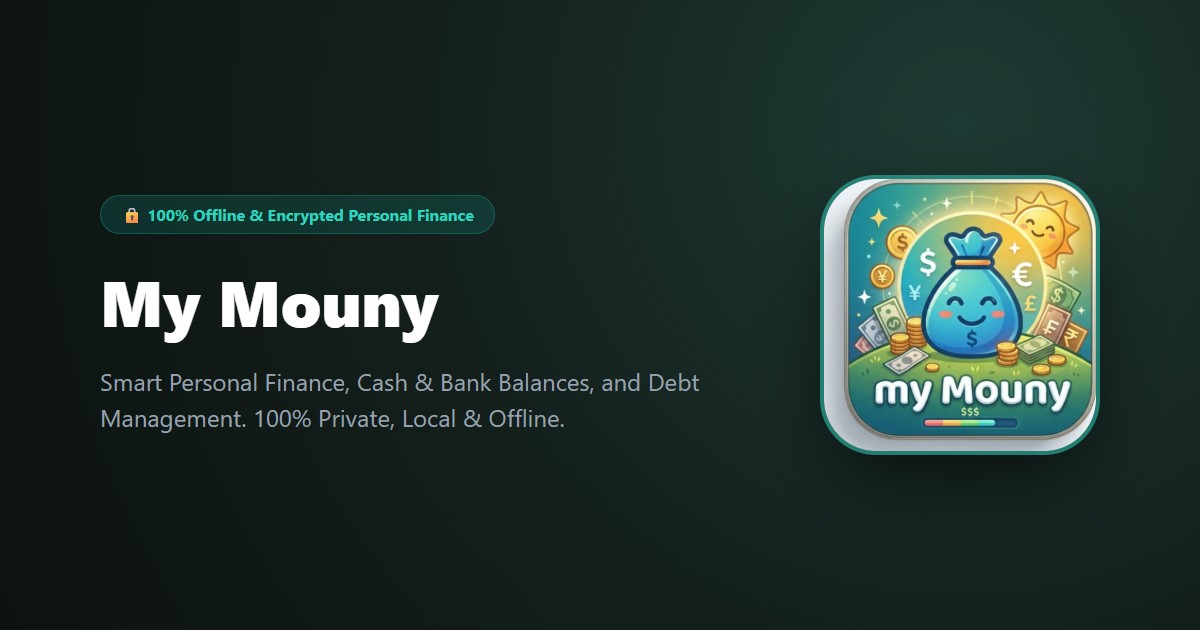
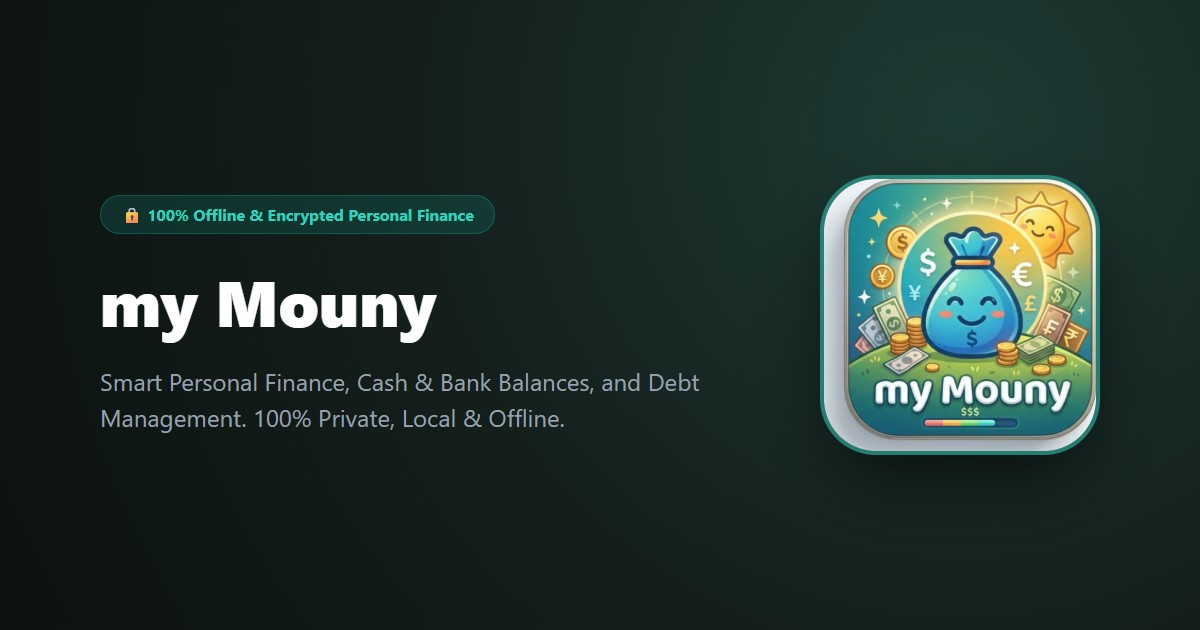
feat: rename application strictly to 'my Mouny' matching official artwork

Changed region(s): [[0.0617, 0.4222, 0.37, 0.5429]]

diff --git a/src/lib/i18n/index.ts b/src/lib/i18n/index.ts
@@ -20,7 +20,7 @@ export const LANGUAGES: LanguageInfo[] = [
 export const translations = {
   ar: {
     // Top Header & Vault
-    appName: "My Mouny",
+    appName: "my Mouny",
     appSubtitle: "بياناتك محفوظة ومشفرة محلياً في جهازك بدون اتصال خارجي",
     vaultEncrypted: "مشفّرة ومحمية 🔒",
     vaultOpen: "خزنة محلية مفتوحة 🔓",
@@ -186,7 +186,7 @@ export const translations = {
 
     // Exit Toast & Footer
     pressBackAgainToExit: "اضغط رجوع مرة أخرى للخروج من التطبيق",
-    footerCopyright: "My Mouny © 2026",
+    footerCopyright: "my Mouny © 2026",
     footerPrivacy: "سياسة الخصوصية والأمان",
     footerSecurity: "تشفير محلي عسكري AES-256 · أوفلاين 100% بدون خوادم",
 
@@ -204,7 +204,7 @@ export const translations = {
     waiveNotice: "الإسقاط لا يحرّك الكاش ولا البنك، ويعدّل الصافي فقط.",
 
     // Auth screen & Vault Creation & PIN Management
-    defaultVaultName: "My Mouny",
+    defaultVaultName: "my Mouny",
     pinMinLengthError: "رمز المرور يجب أن يتكون من 4 خانات على الأقل (أو اتركه فارغاً للدخول بدون رمز)",
     pinsDoNotMatchError: "رمزا المرور غير متطابقين",
     chooseBackupFileError: "يرجى اختيار ملف النسخة الاحتياطية (.json)",
@@ -224,7 +224,7 @@ export const translations = {
     createNewVaultBtn: "إنشاء خزنة جديدة على هذا الجهاز",
     importVaultFromBackupBtn: "استيراد خزنة من نسخة احتياطية (.json)",
     vaultNameLabel: "اسم الخزنة",
-    vaultNamePlaceholder: "مثال: خزنة My Mouny، مصاريف البيت",
+    vaultNamePlaceholder: "مثال: خزنة my Mouny، مصاريف البيت",
     vaultPinOptionalLabel: "رمز المرور (PIN أو كلمة سر)",
     optionalBadge: "اختياري",
     pinOptionalPlaceholder: "اتركه فارغاً للدخول بدون رمز، أو 4 خانات",
@@ -288,7 +288,7 @@ export const translations = {
 
   en: {
     // Top Header & Vault
-    appName: "My Mouny",
+    appName: "my Mouny",
     appSubtitle: "Your data is stored and encrypted locally on this device without external servers",
     vaultEncrypted: "Encrypted & Protected 🔒",
     vaultOpen: "Open Local Vault 🔓",
@@ -454,7 +454,7 @@ export const translations = {
 
     // Exit Toast & Footer
     pressBackAgainToExit: "Press back again to exit the app",
-    footerCopyright: "My Mouny © 2026",
+    footerCopyright: "my Mouny © 2026",
     footerPrivacy: "Privacy Policy & Security",
     footerSecurity: "Military-grade local AES-256 · 100% Offline without servers",
 
@@ -472,7 +472,7 @@ export const translations = {
     waiveNotice: "Waiving does not move Cash or Bank, it only updates Net Worth.",
 
     // Auth screen & Vault Creation & PIN Management
-    defaultVaultName: "My Mouny",
+    defaultVaultName: "my Mouny",
     pinMinLengthError: "PIN must be at least 4 digits (or leave blank to enter without PIN)",
     pinsDoNotMatchError: "PINs do not match",
     chooseBackupFileError: "Please select a backup file (.json)",
@@ -556,7 +556,7 @@ export const translations = {
 
   el: {
     // Top Header & Vault
-    appName: "My Mouny",
+    appName: "my Mouny",
     appSubtitle: "Τα δεδομένα σας αποθηκεύονται και κρυπτογραφούνται τοπικά σε αυτήν τη συσκευή",
     vaultEncrypted: "Κρυπτογραφημένο & Προστατευμένο 🔒",
     vaultOpen: "Ανοιχτό Τοπικό Θησαυροφυλάκιο 🔓",
@@ -722,7 +722,7 @@ export const translations = {
 
     // Exit Toast & Footer
     pressBackAgainToExit: "Πατήστε ξανά πίσω για έξοδο από την εφαρμογή",
-    footerCopyright: "My Mouny © 2026",
+    footerCopyright: "my Mouny © 2026",
     footerPrivacy: "Πολιτική Απορρήτου & Ασφάλεια",
     footerSecurity: "Στρατιωτικού επιπέδου τοπικό AES-256 · 100% Εκτός σύνδεσης χωρίς διακομιστές",
 
@@ -740,7 +740,7 @@ export const translations = {
     waiveNotice: "Η διαγραφή δεν επηρεάζει τα Μετρητά ή την Τράπεζα, ενημερώνει μόνο την Καθαρή Αξία.",
 
     // Auth screen & Vault Creation & PIN Management
-    defaultVaultName: "My Mouny",
+    defaultVaultName: "my Mouny",
     pinMinLengthError: "Το PIN πρέπει να αποτελείται από τουλάχιστον 4 ψηφία (ή αφήστε το κενό)",
     pinsDoNotMatchError: "Τα PIN δεν ταιριάζουν",
     chooseBackupFileError: "Παρακαλώ επιλέξτε αρχείο αντιγράφου ασφαλείας (.json)",

diff --git a/src/components/ledger/home.tsx b/src/components/ledger/home.tsx
@@ -220,10 +220,10 @@ function InstallGuideModal({ onClose }: { onClose: () => void }) {
             <div>
               <h2 className="text-base font-bold text-ink leading-tight">
                 {lang === "ar"
-                  ? "تثبيت My Mouny كـ تطبيق"
+                  ? "تثبيت my Mouny كـ تطبيق"
                   : lang === "el"
-                  ? "Εγκατάσταση My Mouny"
-                  : "Install My Mouny as an App"}
+                  ? "Εγκατάσταση my Mouny"
+                  : "Install my Mouny as an App"}
               </h2>
               <p className="text-xs text-muted">
                 {lang === "ar"
@@ -373,8 +373,8 @@ function InstallGuideModal({ onClose }: { onClose: () => void }) {
                 </span>
                 <p className="font-semibold text-accent">
                   {lang === "ar"
-                    ? "ستجد أيقونة تثبيت صغيرة على شكل كمبيوتر وسهم لأسفل أو زر «تثبيت My Mouny»."
-                    : "Click the small install icon (computer with down arrow) or 'Install My Mouny'."}
+                    ? "ستجد أيقونة تثبيت صغيرة على شكل كمبيوتر وسهم لأسفل أو زر «تثبيت my Mouny»."
+                    : "Click the small install icon (computer with down arrow) or 'Install my Mouny'."}
                 </p>
               </div>
               <div className="flex items-start gap-2.5">
@@ -383,8 +383,8 @@ function InstallGuideModal({ onClose }: { onClose: () => void }) {
                 </span>
                 <p>
                   {lang === "ar"
-                    ? "أو من قائمة المتصفح (⋮) اختر «حفظ ومشاركة» -> «تثبيت My Mouny»، وسيفتح التطبيق فوراً كبرنامج مستقل على سطح المكتب!"
-                    : "Or from browser menu (⋮) choose 'Save and share' -> 'Install My Mouny' to launch as a standalone desktop app!"}
+                    ? "أو من قائمة المتصفح (⋮) اختر «حفظ ومشاركة» -> «تثبيت my Mouny»، وسيفتح التطبيق فوراً كبرنامج مستقل على سطح المكتب!"
+                    : "Or from browser menu (⋮) choose 'Save and share' -> 'Install my Mouny' to launch as a standalone desktop app!"}
                 </p>
               </div>
             </div>
@@ -634,15 +634,19 @@ function Ledger() {
     currentVault.name === "خزينتي الرئيسية" ||
     currentVault.name === "خزينتي الأساسية" ||
     currentVault.name === "خزنة My Mouny" ||
+    currentVault.name === "خزنة my Mouny" ||
     currentVault.name === "ماي موني" ||
     currentVault.name === "My Mouny" ||
+    currentVault.name === "my Mouny" ||
     currentVault.name === "My Main Vault" ||
     currentVault.name === "My Mouny Vault" ||
+    currentVault.name === "my Mouny Vault" ||
     currentVault.name === "Το Κύριο Ταμείο μου" ||
     currentVault.name === "Το Ταμείο μου (My Mouny)" ||
+    currentVault.name === "Το Ταμείο μου (my Mouny)" ||
     currentVault.name === "Μάι Μούνι (My Mouny)";
   const displayedVaultName = isDefaultVault
-    ? "My Mouny"
+    ? "my Mouny"
     : currentVault.name;
 
   return (

diff --git a/src/lib/ledger/store.ts b/src/lib/ledger/store.ts
@@ -182,7 +182,7 @@ export const useLedger = create<LedgerState>((set, get) => ({
         localStorage.setItem("khazinti_lang", lang);
         document.documentElement.dir = lang === "ar" ? "rtl" : "ltr";
         document.documentElement.lang = lang;
-        document.title = "My Mouny";
+        document.title = "my Mouny";
       } catch {
         // ignore
       }
@@ -196,7 +196,7 @@ export const useLedger = create<LedgerState>((set, get) => ({
         const currentLang = get().lang;
         document.documentElement.dir = currentLang === "ar" ? "rtl" : "ltr";
         document.documentElement.lang = currentLang;
-        document.title = "My Mouny";
+        document.title = "my Mouny";
       }
 
       const initPromise = (async () => {
@@ -213,7 +213,7 @@ export const useLedger = create<LedgerState>((set, get) => ({
         if (vaults.length === 0) {
           const defaultVault = await getOrCreateDefaultVault().catch(() => ({
             id: "default-vault",
-            name: "My Mouny",
+            name: "my Mouny",
             hasPin: false,
             createdAt: Date.now(),
             updatedAt: Date.now(),
@@ -275,7 +275,7 @@ export const useLedger = create<LedgerState>((set, get) => ({
         console.warn("[useLedger] initSession took >2s, forcing fallback initialized state");
         const fallbackVault: VaultMeta = {
           id: "default-vault",
-          name: "My Mouny",
+          name: "my Mouny",
           hasPin: false,
           createdAt: Date.now(),
           updatedAt: Date.now(),
@@ -294,7 +294,7 @@ export const useLedger = create<LedgerState>((set, get) => ({
       console.error("[useLedger] Failed to init session:", err);
       const fallbackVault: VaultMeta = {
         id: "default-vault",
-        name: "My Mouny",
+        name: "my Mouny",
         hasPin: false,
         createdAt: Date.now(),
         updatedAt: Date.now(),
@@ -316,7 +316,7 @@ export const useLedger = create<LedgerState>((set, get) => ({
     // Find first vault without a PIN, or create one
     let target = vaults.find((v) => !v.hasPin);
     if (!target) {
-      const res = await idbCreateVault("My Mouny", undefined);
+      const res = await idbCreateVault("my Mouny", undefined);
       target = res.meta;
     }
     const txs = await loadVaultTransactions(target.id, undefined);

diff --git a/src/components/ledger/vault-auth.tsx b/src/components/ledger/vault-auth.tsx
@@ -26,15 +26,19 @@ function getVaultDisplayName(name?: string, lang: Language = "ar"): string {
     name === "خزينتي الرئيسية" ||
     name === "خزينتي الأساسية" ||
     name === "خزنة My Mouny" ||
+    name === "خزنة my Mouny" ||
     name === "ماي موني" ||
     name === "My Mouny" ||
+    name === "my Mouny" ||
     name === "My Main Vault" ||
     name === "My Mouny Vault" ||
+    name === "my Mouny Vault" ||
     name === "Το Κύριο Ταμείο μου" ||
     name === "Το Ταμείο μου (My Mouny)" ||
+    name === "Το Ταμείο μου (my Mouny)" ||
     name === "Μάι Μούνι (My Mouny)"
   ) {
-    return "My Mouny";
+    return "my Mouny";
   }
   return name;
 }
@@ -761,15 +765,19 @@ export function BackupModal({ onClose }: { onClose: () => void }) {
             currentVault.name === "خزينتي الرئيسية" ||
             currentVault.name === "خزينتي الأساسية" ||
             currentVault.name === "خزنة My Mouny" ||
+            currentVault.name === "خزنة my Mouny" ||
             currentVault.name === "ماي موني" ||
             currentVault.name === "My Mouny" ||
+            currentVault.name === "my Mouny" ||
             currentVault.name === "My Main Vault" ||
             currentVault.name === "My Mouny Vault" ||
+            currentVault.name === "my Mouny Vault" ||
             currentVault.name === "Το Κύριο Ταμείο μου" ||
             currentVault.name === "Το Ταμείο μου (My Mouny)" ||
+            currentVault.name === "Το Ταμείο μου (my Mouny)" ||
             currentVault.name === "Μάι Μούνι (My Mouny)";
           const displayedVaultName = isDefaultVault
-            ? "My Mouny"
+            ? "my Mouny"
             : currentVault.name;
           return (
             <div className="mt-5 space-y-4">

diff --git a/public/privacy.html b/public/privacy.html
@@ -3,7 +3,7 @@
 <head>
   <meta charset="UTF-8">
   <meta name="viewport" content="width=device-width, initial-scale=1.0">
-  <title>سياسة الخصوصية | My Mouny</title>
+  <title>سياسة الخصوصية | my Mouny</title>
   <style>
     body {
       font-family: system-ui, -apple-system, BlinkMacSystemFont, 'Segoe UI', Roboto, sans-serif;
@@ -45,11 +45,11 @@
 <body>
   <div class="card">
     <span class="badge">🔒 خصوصية وأمان محلي 100%</span>
-    <h1>سياسة الخصوصية لتطبيق "My Mouny"</h1>
+    <h1>سياسة الخصوصية لتطبيق "my Mouny"</h1>
     <p>آخر تحديث: 29 أكتوبر 2026</p>
 
     <p>
-      نحن نحترم خصوصيتك لأقصى درجة. تم تصميم وتطوير تطبيق <strong>My Mouny</strong> ليكون تطبيقاً مالياً شخصياً يعمل بوضع <strong>عدم الاتصال التام (Offline-First)</strong>، حيث تبقى جميع بياناتك المالية ملكاً لك وحدك داخل جهازك دون أي خوادم خارجية أو مشاركة بيانات مع أطراف ثالثة.
+      نحن نحترم خصوصيتك لأقصى درجة. تم تصميم وتطوير تطبيق <strong>my Mouny</strong> ليكون تطبيقاً مالياً شخصياً يعمل بوضع <strong>عدم الاتصال التام (Offline-First)</strong>، حيث تبقى جميع بياناتك المالية ملكاً لك وحدك داخل جهازك دون أي خوادم خارجية أو مشاركة بيانات مع أطراف ثالثة.
     </p>
 
     <h2>1. جمع البيانات واستخدامها</h2>
@@ -84,7 +84,7 @@
     </p>
 
     <div class="footer">
-      تطبيق My Mouny &copy; 2026 - جميع الحقوق محفوظة
+      تطبيق my Mouny &copy; 2026 - جميع الحقوق محفوظة
     </div>
   </div>
 </body>

diff --git a/src/routes/__root.tsx b/src/routes/__root.tsx
@@ -6,7 +6,7 @@ import { Skeleton } from "@/components/ledger/home";
 import { useLedger } from "@/lib/ledger/store";
 import appCss from "../styles.css?url";
 
-const APP_NAME = "ذاكر";
+const APP_NAME = "my Mouny";
 
 function RootShell() {
   useEffect(() => {
@@ -60,7 +60,7 @@ function RootComponent() {
     if (typeof window !== "undefined") {
       document.documentElement.lang = lang;
       document.documentElement.dir = lang === "ar" ? "rtl" : "ltr";
-      document.title = "ذاكر - تطبيق إدارة المصاريف والخزنة";
+      document.title = "my Mouny";
     }
   }, [lang]);
 
@@ -129,10 +129,10 @@ export const Route = createRootRoute({
       { name: "mobile-web-app-capable", content: "yes" },
       { name: "apple-mobile-web-app-capable", content: "yes" },
       { name: "apple-mobile-web-app-status-bar-style", content: "black-translucent" },
-      { name: "apple-mobile-web-app-title", content: "ذاكر" },
+      { name: "apple-mobile-web-app-title", content: "my Mouny" },
       {
         name: "description",
-        content: "خزنتك المالية المستقلة والمشفرة محلياً: كاش، بنك، ما لك وما عليك دون إنترنت.",
+        content: "my Mouny: خزنتك المالية الذكية والمشفرة محلياً - أوفلاين 100% دون خوادم.",
       },
       {
         httpEquiv: "Content-Security-Policy",

diff --git a/public/sw.js b/public/sw.js
@@ -126,7 +126,7 @@ self.addEventListener("fetch", (event) => {
           if (cached) return cached;
 
           return new Response(
-            `<!DOCTYPE html><html dir="rtl" lang="ar"><head><meta charset="utf-8"><title>My Mouny</title><meta name="viewport" content="width=device-width,initial-scale=1"></head><body style="font-family:sans-serif;text-align:center;padding:50px 20px;background:#f4f1eb;color:#1c1a17"><h2>My Mouny</h2><p style="color:#666">أنت الآن تعمل دون اتصال بالإنترنت.</p><button onclick="location.reload()" style="padding:10px 24px;border-radius:10px;background:#0d9488;color:#fff;border:none;cursor:pointer;font-weight:bold;margin-top:20px">تحديث</button></body></html>`,
+            `<!DOCTYPE html><html dir="rtl" lang="ar"><head><meta charset="utf-8"><title>my Mouny</title><meta name="viewport" content="width=device-width,initial-scale=1"></head><body style="font-family:sans-serif;text-align:center;padding:50px 20px;background:#f4f1eb;color:#1c1a17"><h2>my Mouny</h2><p style="color:#666">أنت الآن تعمل دون اتصال بالإنترنت.</p><button onclick="location.reload()" style="padding:10px 24px;border-radius:10px;background:#0d9488;color:#fff;border:none;cursor:pointer;font-weight:bold;margin-top:20px">تحديث</button></body></html>`,
             { headers: { "Content-Type": "text/html; charset=utf-8" } }
           );
         })

diff --git a/src/lib/storage/idb.ts b/src/lib/storage/idb.ts
@@ -267,7 +267,7 @@ export async function getOrCreateDefaultVault(): Promise<VaultMeta> {
   const id = crypto.randomUUID();
   const defaultVault: VaultRecord = {
     id,
-    name: "My Mouny",
+    name: "my Mouny",
     hasPin: false,
     pinHash: "",
     salt: generateSalt(32),
